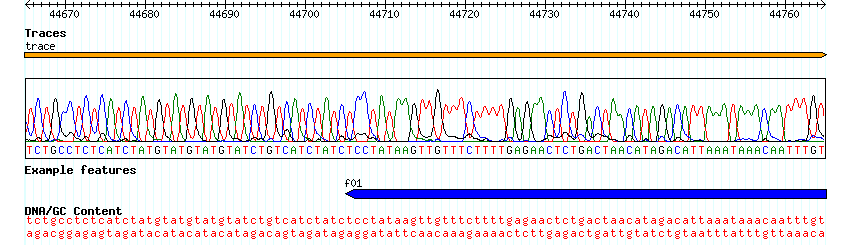
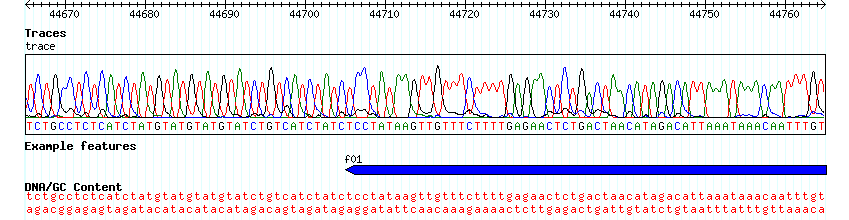
Made some changes to trace.pm to remove the generic glyph when zoomed in and give the option to remove the border.

Changed region(s): [[0.0306, 0.0, 0.98, 1.0]]

diff --git a/docs/tutorial/tutorial.html b/docs/tutorial/tutorial.html
@@ -1856,6 +1856,7 @@ g_color      = black
 t_color      = red
 trace_height = 80
 trace_prefix = http://localhost/gbrowse/tutorial/data_files/
+show_border  = 1
 key          = Traces
 </pre></blockquote>
 
@@ -1872,6 +1873,10 @@ The trace_prefix option is important because it gives the path to the trace file
 <p>
 
 The a/c/g/t_color options allow configuration of the base colors.  The trace_height refers to the height of the trace itself.  Play around with it to find a height that you like.
+
+<p>
+
+If show_border is set to 1, a black box will be drawn around the trace.
 
 <p>
 
